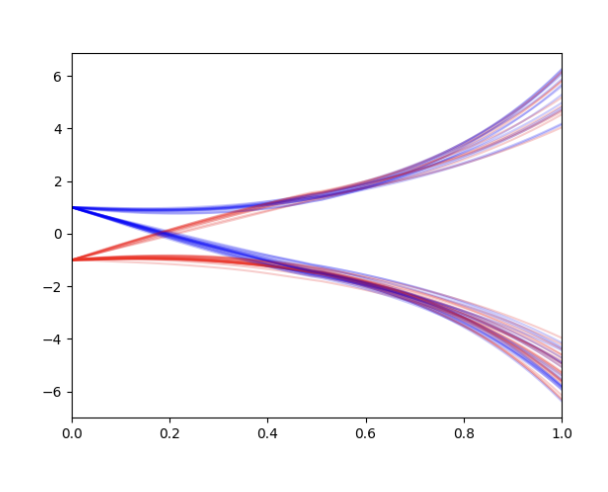
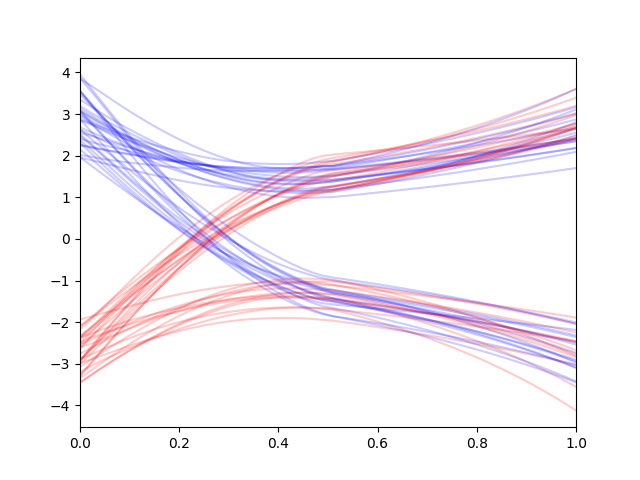
Finish Blog Post Unconditional Conditional Sampling

Changed region(s): [[0.0625, 0.0938, 0.9375, 0.9375]]

diff --git a/theme/static/css/blog.css b/theme/static/css/blog.css
@@ -24,3 +24,7 @@ article {
     flex-direction: column;
     align-items: center;
 }
+
+.imgside {
+    display: flex;
+}

diff --git a/theme/static/css/article.css b/theme/static/css/article.css
@@ -34,3 +34,7 @@ img {
     margin-left: auto; 
     margin-right: auto;
 }
+
+.imgside {
+    display: flex;
+}

diff --git a/content/posts/3. unconditional_context_sampling.md b/content/posts/3. unconditional_context_sampling.md
@@ -1,5 +1,5 @@
 title: Robust Conditional Context Sampling with Unconditional Diffusion Models  
-date: 2024-12-01 11:48
+date: 2024-12-02 11:48
 category: machine learning
 tags: machine learning, deep generative models, diffusion, conditional sampling
 slug: unconditional_context_sampling
@@ -8,7 +8,7 @@ status: published
 
 *Estimated Reading Time: 45 minutes*
 
-Diffusion models [4,8,9,11] have emerged as a flexible and expressive family of generative models, capable of producing high quality results in multiple domains, 
+Diffusion models [4,8,9,12] have emerged as a flexible and expressive family of generative models, capable of producing high quality results in multiple domains, 
 including images [3], audio [7], and video [6]. In
 recent diffusion models, it has also become increasingly common to generate low-temperature samples by conditioning on class labels, either through an external
 classifier [3] or by training on paired data and periodically discarding the class
@@ -32,7 +32,7 @@ Multiple different approaches can be taken to do this conditional generation. Th
 * Training a classifier-free (conditional) diffusion model [5] directly using previously generated context as conditioning input. This idea
     is also the basis of a follow up work of [1] (to be released soon).
    
-* [11] proposes a general method for conditional sampling from a jointly trained unconditional diffusion model $p(\textbf{x}=[\textbf{x}^{a},\textbf{x}^b])$ (where 
+* [12] proposes a general method for conditional sampling from a jointly trained unconditional diffusion model $p(\textbf{x}=[\textbf{x}^{a},\textbf{x}^b])$ (where 
     $\textbf{x}^a$ is the first half and $\textbf{x}^b$ is the second half) by diffusing 
     a noisy data point $\textbf{x}_t $ by replacing the first half of the reconstructed $\hat{x}_0 $ in a DDIM [9] step with the ground truth (generated) $\hat{x}^a $. The samples $\hat{x}^{a}_{t-1}$ will then have the correct marginals and 
     will conform to the ground truth $\hat{x}^{a}$. This method, however, has shown to be flawed due to the update not including
@@ -83,7 +83,7 @@ defined on the first half, there can be a multitude of second half trajectories.
 $\phi_2$ conditioned on first half trajectories $\varphi$.
 
 Our dataset $\mathcal{D}$ will consist of full trajectories defined on the whole interval $\varphi: [0,T] \to \mathbb{R}$. We define the data distribution of the
-trajectory fragments defined on the first half (the interval $[0, T/2]$) as $\mathcal{D}_1$ and the fragments on the second half (interval $[T/2, T]$) as $\mathcal{D}_2.
+trajectory fragments defined on the first half (the interval $[0, T/2]$) as $\mathcal{D}_1$ and the fragments on the second half (interval $[T/2, T]$) as $\mathcal{D}_2$.
 As described in the first section, we can now model our data distribution using one of two methods:
 
 * Training a conditional diffusion model that directly conditions on the first half (context) of the trajectory, ie. generating $\mathcal{D}_2$ *directly* conditioned on elements of $\mathcal{D}_1$. Given first half trajectories we can then directly generate elements of $\mathcal{D}_2$.
@@ -91,32 +91,60 @@ As described in the first section, we can now model our data distribution using 
 sample the second half trajectory using the reconstruction guidance updates given above. For our simple trajectory examples, we find that simple Langevin sampling
 methods suffice (so we do not require predictor-corrector strategies as in [6]). 
 
-We train these models on a simple bimodal exponential dataset as shown below:
+We train these models on a simple stochastic bimodal exponential dataset as shown below:
  <figure markdown="span">
     <img src="/images/3.unconditional_context_sampling/train.png" alt = "Training Trajectory Dataset" style="width: 50%;"/>
     <figcaption style="text-align: center;"> Fig 3: The training dataset of trajectories is a simple bimodal exponential dataset</ficaption>
 </figure>
 Note that for any first half trajectory fragments, there are multiple possible second half trajectory fragments which naturally leads to a generative approach to the
-task. 
+task. Throughout the training, we use the beta schedule proposed by Karras et. al in [10], given by 
+$$\beta(t)=\left(\beta_{min}^{1/\rho}+t(\beta_{min}^{1/\rho}-\beta_{max})^{1/\rho}\right)^\rho$$ as we find experimentally that this schedule produces the best 
+training guarantees. We use the hyperparameters $\rho=7$ and $\beta_{min}=0.002$, $\beta_{max}=80$, and use $300$ DDIM sampling steps during
+inference time and $1000$ steps during training time.
 
 Generating the distribution using the direct conditional diffusion model gives the following generations on clean contexts (when the contexts 
 are completely in-distribution):
-
+<figure markdown="span">
+    <img src="/images/3.unconditional_context_sampling/conditional_cleancontext.png" alt = "Conditional Generation Using
+    Clean Contexts" style="width: 50%;"/>
+    <figcaption style="text-align: center;"> Fig 4: Conditional Generation On Clean Context</ficaption>
+</figure>
 On the other hand, training an unconditional diffusion model on the dataset gives the following unconditional generations of the trajectories:
-
+ <figure markdown="span">
+    <img src="/images/3.unconditional_context_sampling/no_context.png" alt = "Training Trajectory Dataset" style="width: 50%;"/>
+    <figcaption style="text-align: center;"> Fig 5: Unconditional Generations</ficaption>
+</figure>
+The generation quality is acceptable (although there are some slight errors), so we consider the base unconditional model itself to have converged.
 Next, using the replacement method and reconstruction guidance, we get the following two trajectories:
+ <figure markdown="span"">
+    <div class="imgside" style="display: flex;">
+    <img src="/images/3.unconditional_context_sampling/clean_context_replacement.png" alt = "Unconditional Model with Clean Context and Replacement
+    " style="width: 40%; display: flex;"/>
+    <img src="/images/3.unconditional_context_sampling/clean_context_rg_4.0.png" alt = "Unconditional mdoel with RG=4.0" style="width: 40%; display: flex;"/>
+    </div>
+    <figcaption style="text-align: center;"> Fig 6: Conditional Generation using the Unconditional Model with the Replacement 
+    Method (left) and with Reconstruction Guidance (right). Note reconstruction guidance gives a substanial improvement in
+    conditional prediction. </ficaption>
+</figure>
 
-Note that reconstruction guidance gives much more consistent trajectories unlike the replacement method which gives second-half trajectories that make sense on their
-own but does not make sense in overall context.
+Note that reconstruction guidance gives much more consistent trajectories unlike the replacement method which gives second-half trajectories that make sense on their own but does not make sense in overall context.
 
 ## Unconditional Diffusion Models Train Context Guidance Models Using Data Augmentation
 
 More interesting is what occurs when our contexts are *out-of-distribution* ie. perturbed in some way. Conditional diffusion models then collapse as they are not trained
-to be robust to noisy inputs (as they have never seen noisy conditions during training). Indeed, we see that when we perturb the contexts (we use random bezier curves
-as a form of perturbation) we get the following generations using the conditional model:
-
-On the other hand, when using reconstruction guidance we get the following generations, which appears to be robust to these noisy inputs leading to good generations 
+to be robust to noisy inputs (as they have never seen noisy conditions during training). Indeed, we see that when we perturb the contexts (we use random bezier and Gaussian perturbations) we get the following generations using the conditional model:
+<figure markdown="span">
+    <img src="/images/3.unconditional_context_sampling/conditional_noisy.png" alt = "Conditional Generation With
+    Noisy Contexts" style="width: 50%;"/>
+    <figcaption style="text-align: center;"> Fig 7: Conditional Generation On Noisy Context</ficaption>
+</figure>
+Indeed, with these noisy contexts it appears that the generations completely collapse. On the other hand, when using reconstruction guidance we get the following generations, which appears to be robust to these noisy inputs leading to good generations 
 regardless:
+<figure markdown="span">
+    <img src="/images/3.unconditional_context_sampling/reconstruction_guidance_noisy.png" alt = "Unconditional Generation on 
+    Noisy Context with Reconstruction Guidance" style="width: 50%;"/>
+    <figcaption style="text-align: center;"> Fig 8: Reconstruction Guidance on Noisy Context</ficaption>
+</figure>
 
 Why are context-conditional generation using diffusion models robust to perturbations in context? We hypothesize that this is due to the training of the unconditional 
 diffusion model. During training, the unconditional diffusion model learns to denoise *noisy* versions of the first half inputs as well which may be one reason as to 
@@ -125,6 +153,12 @@ noise augmented contexts (since this is essentially what occurs during unconditi
 
 To test this, we train a *conditional* diffusion model on contexts that are *pertubed* using some random noise too (along with non-perturbed samples too). This gives 
 us the following conditional generations: 
+
+<figure markdown="span">
+    <img src="/images/3.unconditional_context_sampling/data_augmented_noisy.png" alt = "Conditional Generation on 
+    Noisy Context with Data Augmented Diffusion Model" style="width: 50%;"/>
+    <figcaption style="text-align: center;"> Fig 9: Context Augmented Conditional Model on Noisy Context</ficaption>
+</figure>
 
 which we find to be roughly equivalent to the unconditional diffusion case! 
 
@@ -135,7 +169,7 @@ inverse problems (such as imputation) with heuristic approximation methods. We h
 models, where noisy versions of the contexts are seen *during training*. We then provide an intuitive experiment that gives some grounding to this claim. 
 
 Some more experiments are obviously neccesary to verify that this phenomenom holds in general, including with 
-1. Better approximations (other than reconstruction guidance), eg. Diffusion Posterior Sampling (as in [2]) or Twisted Diffusion Samplers [10] for more grounded
+1. Better approximations (other than reconstruction guidance), eg. Diffusion Posterior Sampling (as in [2]) or Twisted Diffusion Samplers [12] for more grounded
     experiments that rely less on course approximations.
 2. Scaling to larger datasets and/or more complicated inverse problems, eg. image inpainting or super-resolution, video generation, and so forth.
 
@@ -183,8 +217,10 @@ pervised learning using nonequilibrium thermodynamics, 2015.
 
 [9] Jiaming Song, Chenlin Meng, and Stefano Ermon. Denoising diffusion implicit models, 2022.
 
-[10] Luhuan Wu, Brian L. Trippe, Christian A. Naesseth, David M. Blei, and John P. Cunningham.
+[10] Tero Karras, Miika Aittala, Timo Aila, and Samuli Laine. Elucidating the Design Space of Diffusion-Based Generative Models, 2022.
+
+[11] Luhuan Wu, Brian L. Trippe, Christian A. Naesseth, David M. Blei, and John P. Cunningham.
 Practical and Asymptotically Exact Conditional Sampling in Diffusion Models, 2023
 
-[11] Yang Song, Jascha Sohl-Dickstein, Diederik P. Kingma, Abhishek Kumar, Stefano Ermon, and
+[12] Yang Song, Jascha Sohl-Dickstein, Diederik P. Kingma, Abhishek Kumar, Stefano Ermon, and
 Ben Poole. Score-based generative modeling through stochastic differential equations, 2021.
